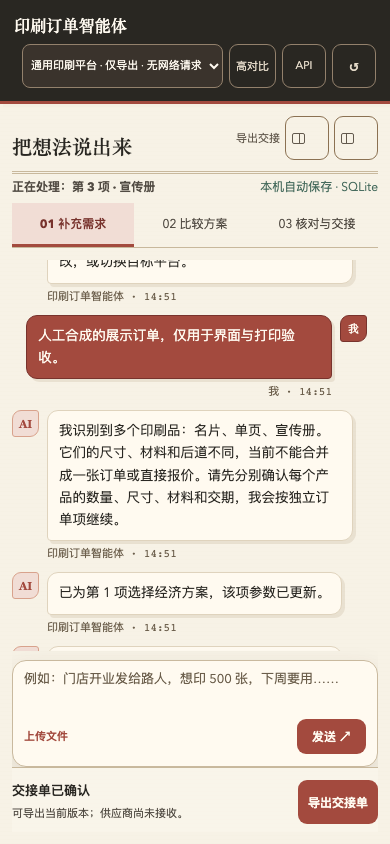
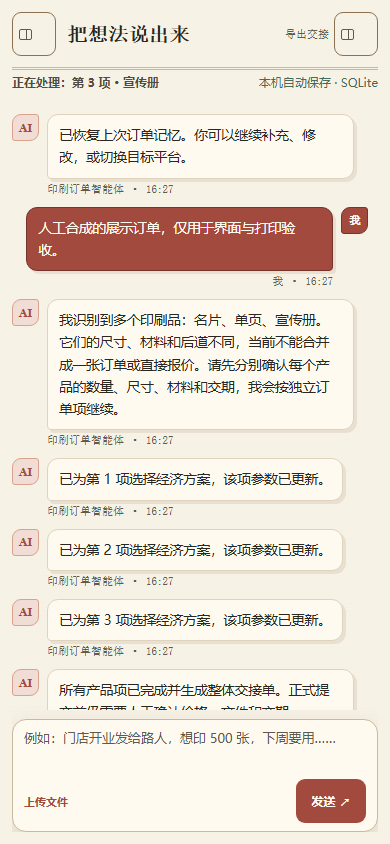
docs: refresh README interface screenshots for the 1.3.0 workspace

diff --git a/README.en.md b/README.en.md
@@ -104,7 +104,7 @@ The local confirmation note is `仅核对本地交接内容；文件待交付，
 
 ## Interface previews
 
-These are historical Chromium screenshots from the **2026-10-15 uncommitted development workspace on the 1.2.0 candidate baseline**, using synthetic demonstration orders; the current UI-position tuning is represented by the live page and browser suites. The stages are intake, comparison, and review/handoff. The 390px image is a desktop narrow viewport, not real mobile/touch acceptance.
+These are Chromium screenshots from the **2026-10-25 uncommitted development workspace on the 1.3.0 candidate baseline**, generated by `tools/capture_journey_demo.mjs` with synthetic demonstration orders; the current UI-position tuning is represented by the live page and browser suites. The stages are intake, comparison, and review/handoff. The 390px image is a desktop narrow viewport, not real mobile/touch acceptance.
 
 | Option comparison | 390px narrow viewport |
 | --- | --- |

diff --git a/README.md b/README.md
@@ -104,7 +104,7 @@ Windows 可在项目目录双击 `start_windows.bat`。服务启动后打开 [ht
 
 ## 界面预览
 
-以下为 **2026-10-15、1.2.0 候选基线未发布工作区**的历史 Chromium 截图，订单为人工合成展示数据；当前 UI 位置微调以实际页面和浏览器专项结果为准。390px 图片只验证桌面窄视口，不证明真实手机/触控适配。三阶段为“补充需求 → 比较方案 → 核对与交接”。
+以下为 **2026-10-25、1.3.0 候选基线未发布工作区**的 Chromium 截图（`tools/capture_journey_demo.mjs` 生成的合成订单），订单为人工合成展示数据；当前 UI 位置微调以实际页面和浏览器专项结果为准。390px 图片只验证桌面窄视口，不证明真实手机/触控适配。三阶段为“补充需求 → 比较方案 → 核对与交接”。
 
 | 方案对比 | 390px 窄视口预览 |
 | --- | --- |
